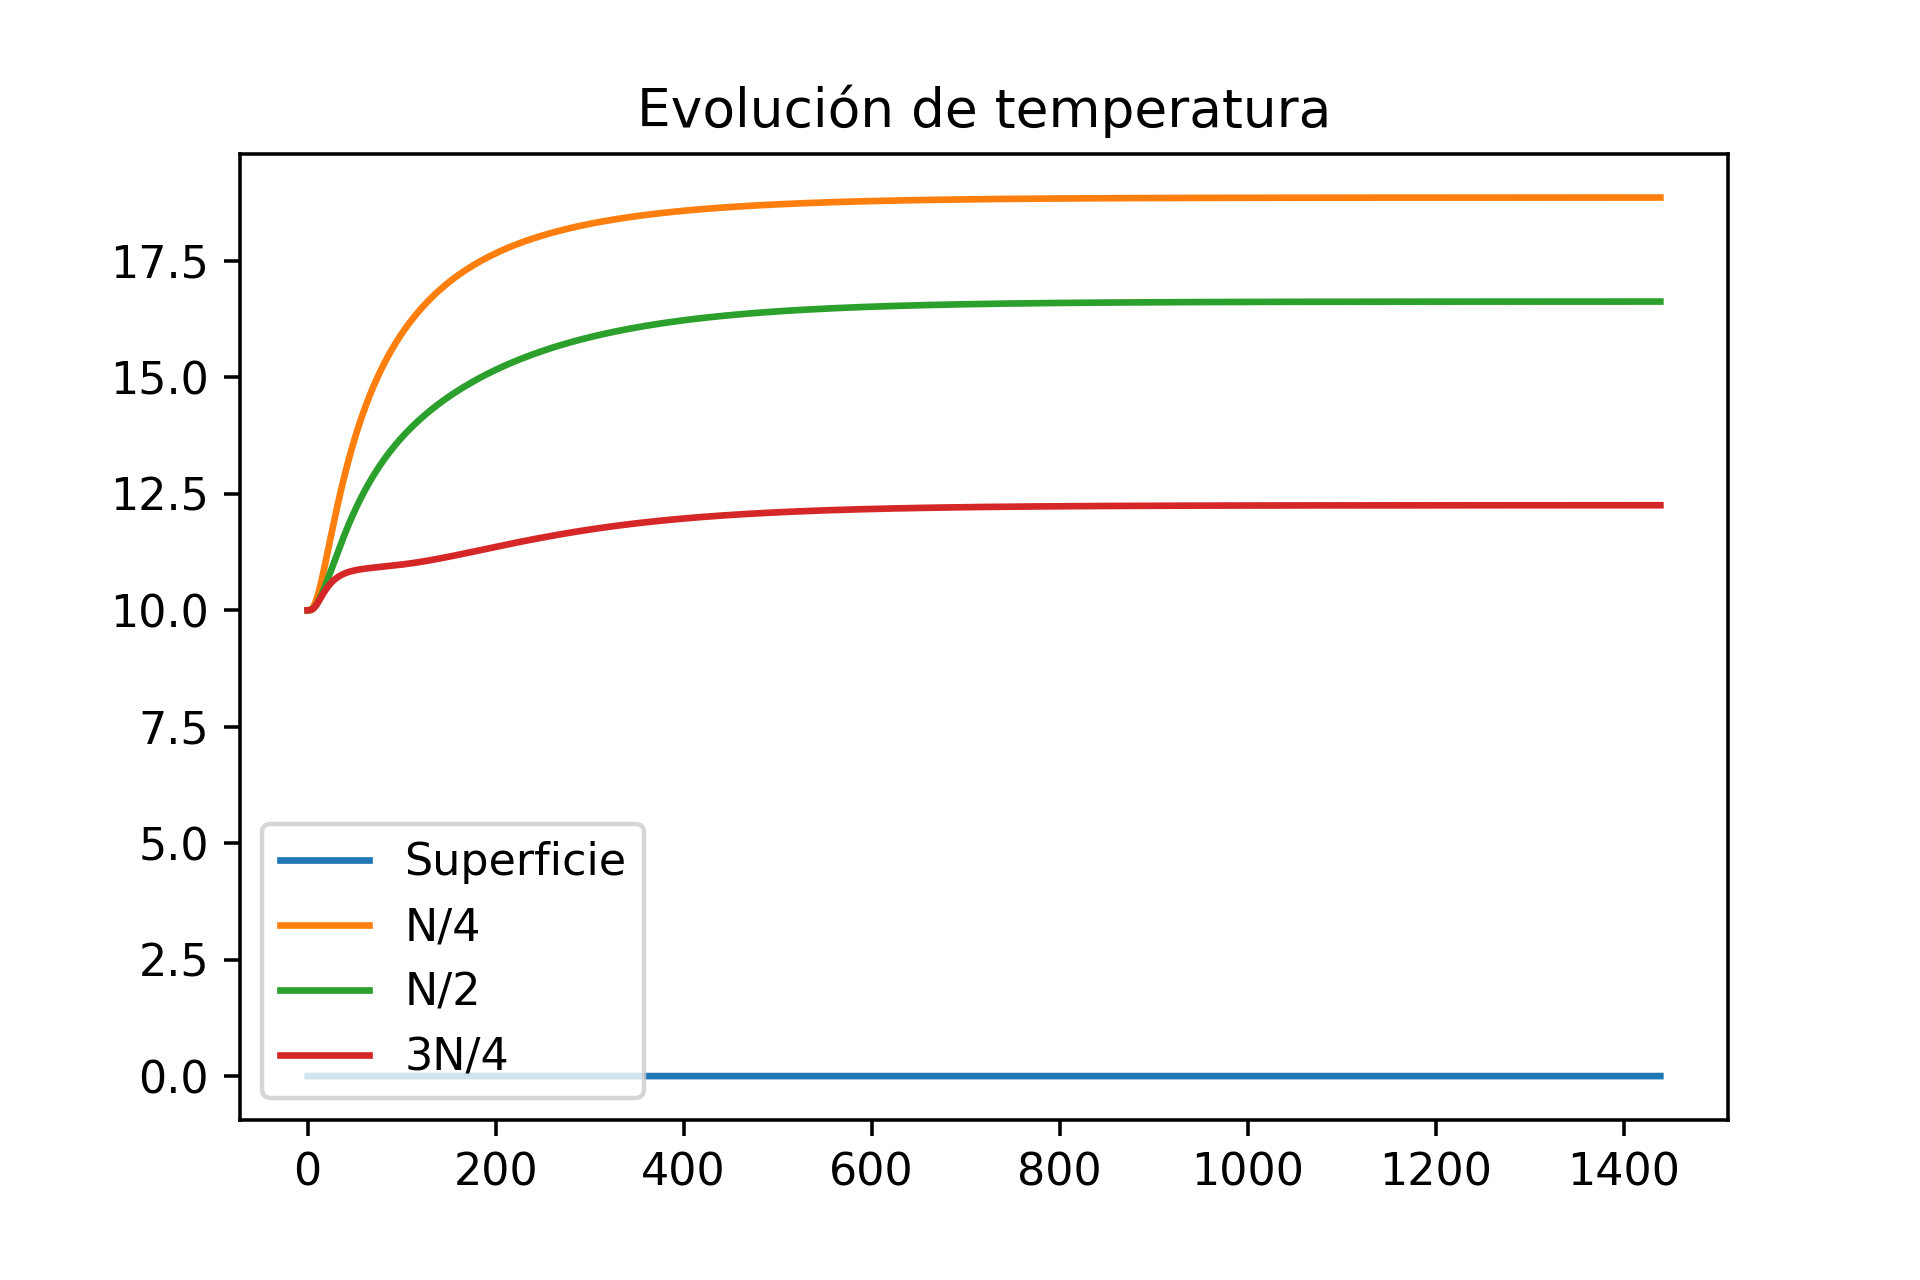
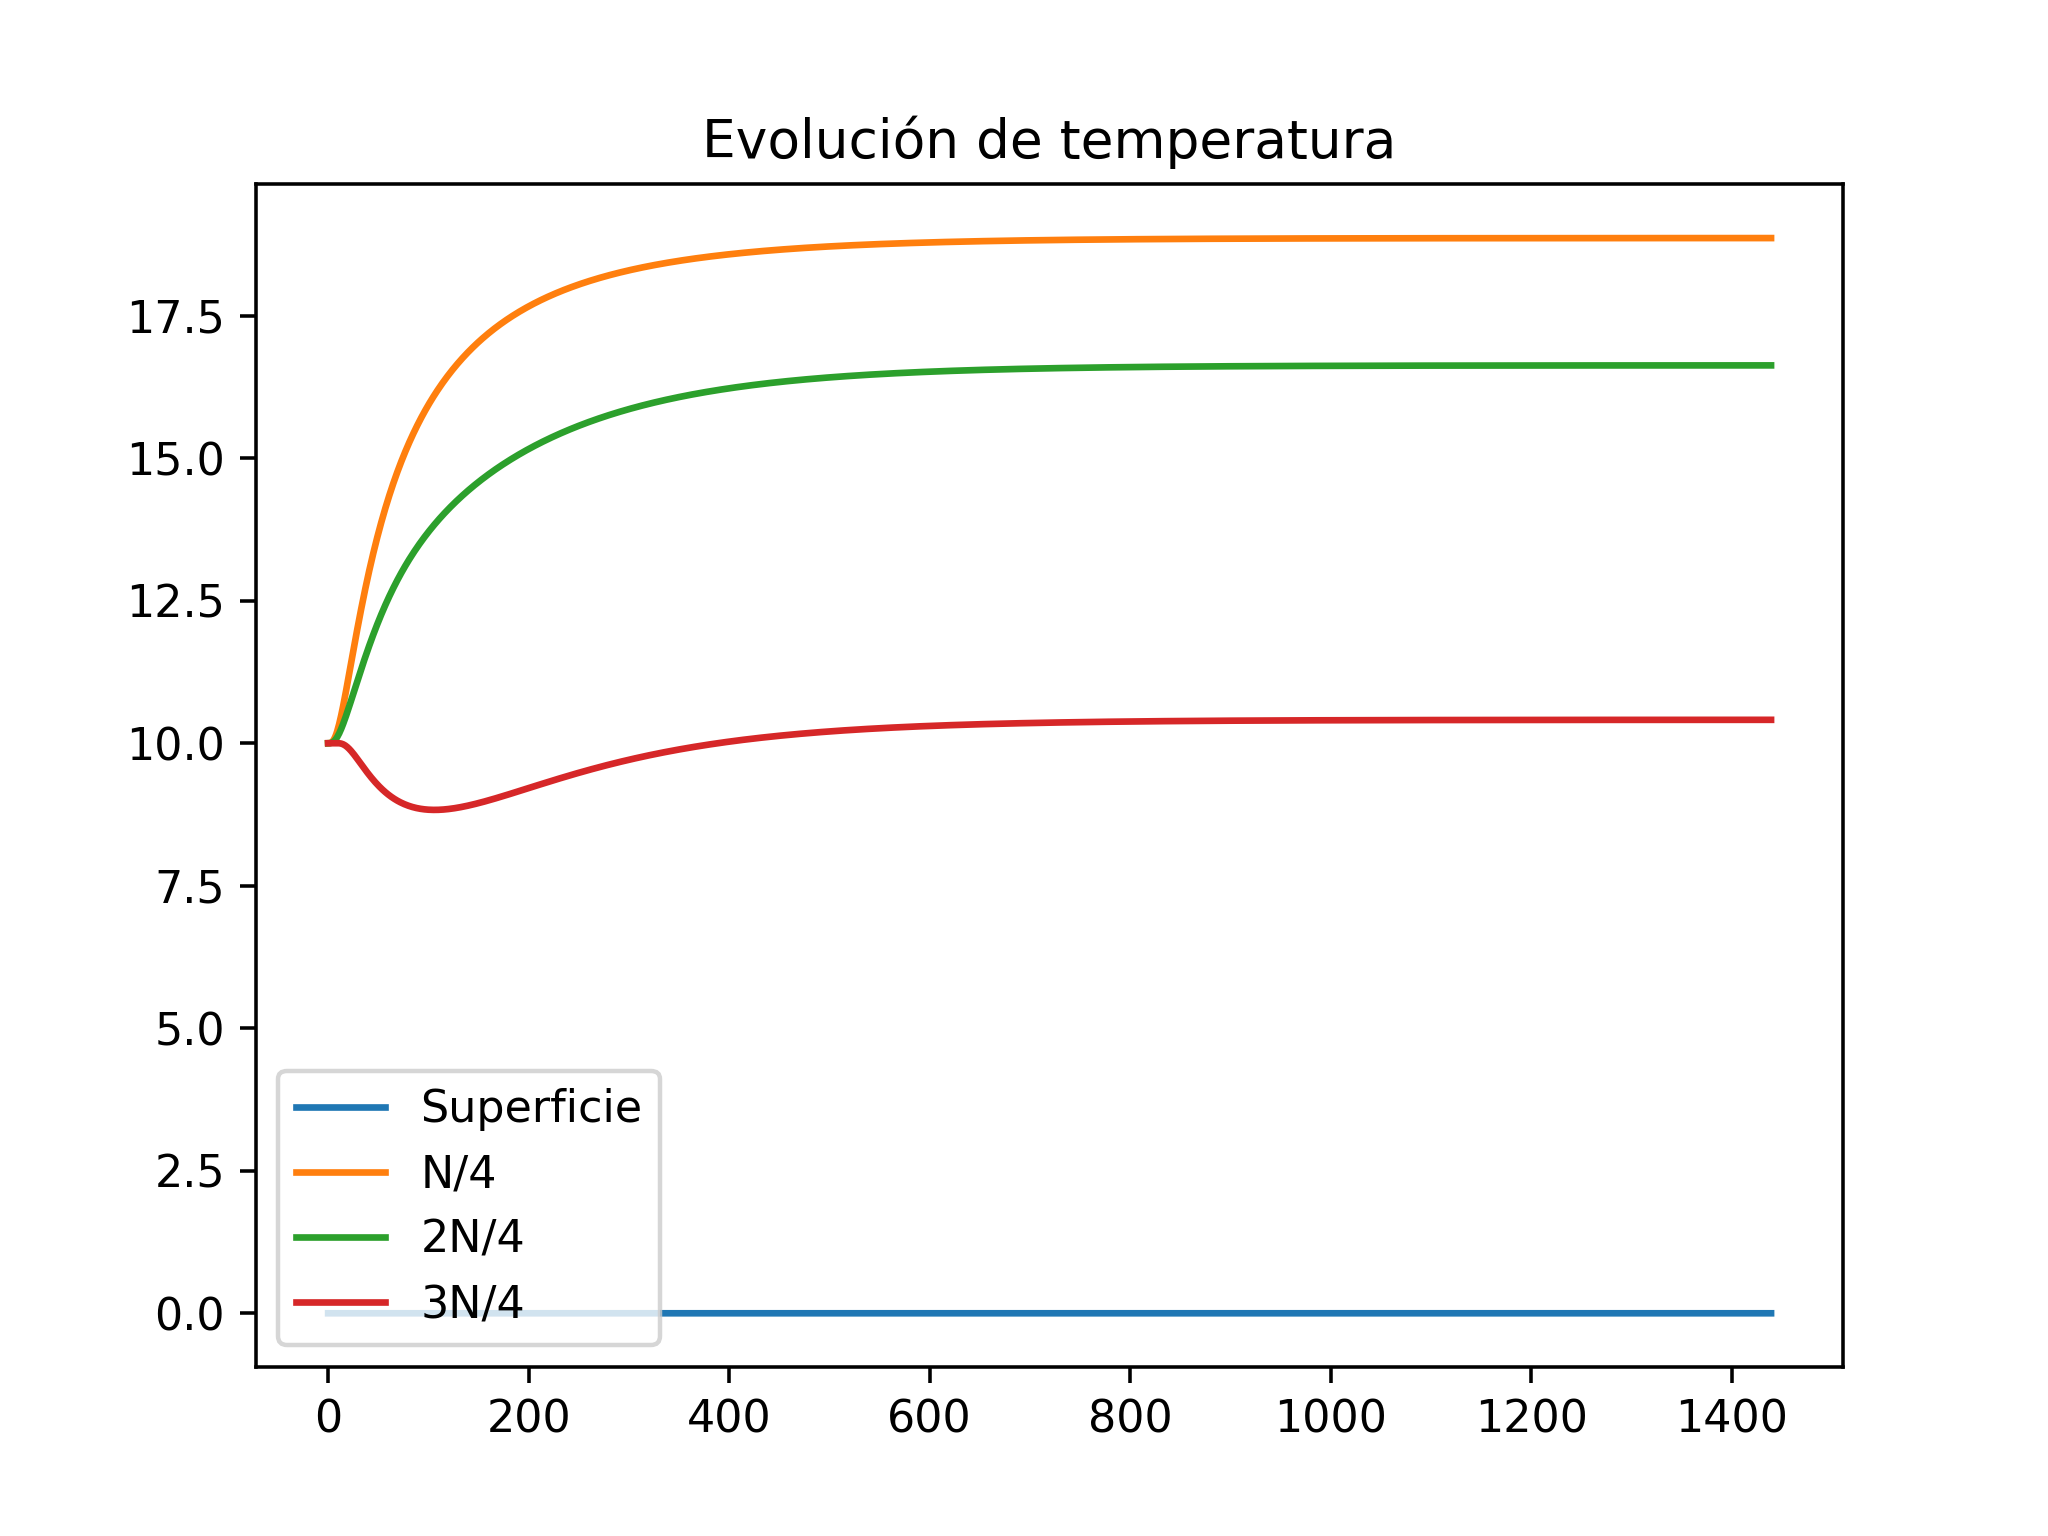
caso4

diff --git a/Entrega_5/caso_4.py b/Entrega_5/caso_4.py
@@ -138,8 +138,8 @@ for k in range(int32(Days/dt)):
     
     u_0[k] = u_k[int(Nx / 2), -1]
     u_N4[k] = u_k[int(Nx / 2), int(Ny / 4)]
-    u_2N4[k] = u_k[int(Nx / 2), int(2 * Ny / 4)]
-    u_3N4[k] = u_k[int(Nx / 2), int(3 * Ny / 4)]
+    u_2N4[k] = u_k[int(Nx / 2), int(2* Ny / 4)]
+    u_3N4[k] = u_k[int(3*Nx / 4), int(3 * Ny / 4)]
     
     #Graicando en d_next
     if t > next_t:
@@ -156,7 +156,7 @@ for k in range(int32(Days/dt)):
 figure(2)
 plot(range(int32(Days / dt)), u_0, label='Superficie')
 plot(range(int32(Days / dt)), u_N4, label='N/4')
-plot(range(int32(Days / dt)), u_2N4, label='N/2')
+plot(range(int32(Days / dt)), u_2N4, label='2N/4')
 plot(range(int32(Days / dt)), u_3N4, label='3N/4')
 title("Evolución de temperatura")
 legend()

diff --git a/Entrega_5/GIFY.py b/Entrega_5/GIFY.py
@@ -9,8 +9,8 @@ def natural_keys(text):
     return[atoi(c) for c in re.split(r'(\d+)', text)]
 
 #Frame
-fp_in = "Caso3/frame_*.png"
-fp_out = "caso_3.gif"
+fp_in = "Caso4/frame_*.png"
+fp_out = "caso_4.gif"
 
 listaImagenes = sorted(glob.glob(fp_in))
 print("sorted(glob.glob(fp_in)): ", listaImagenes)
